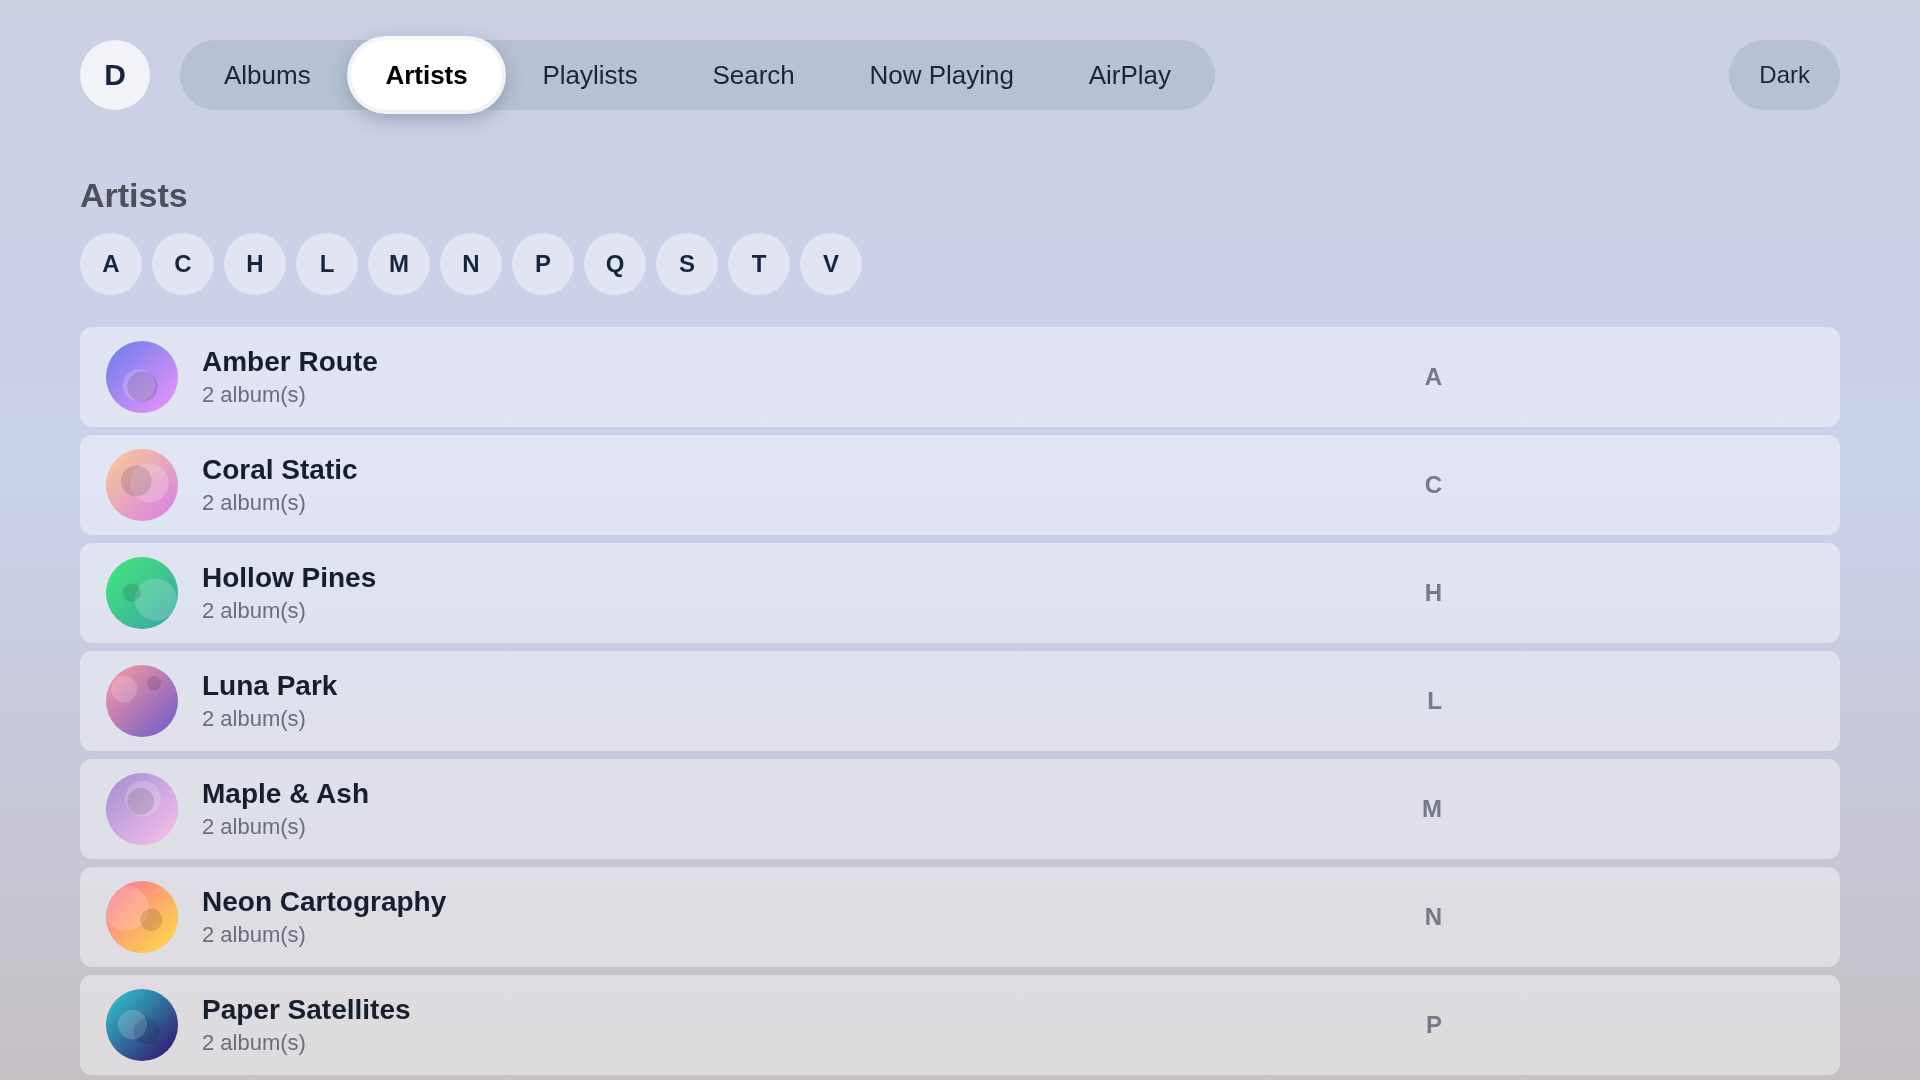
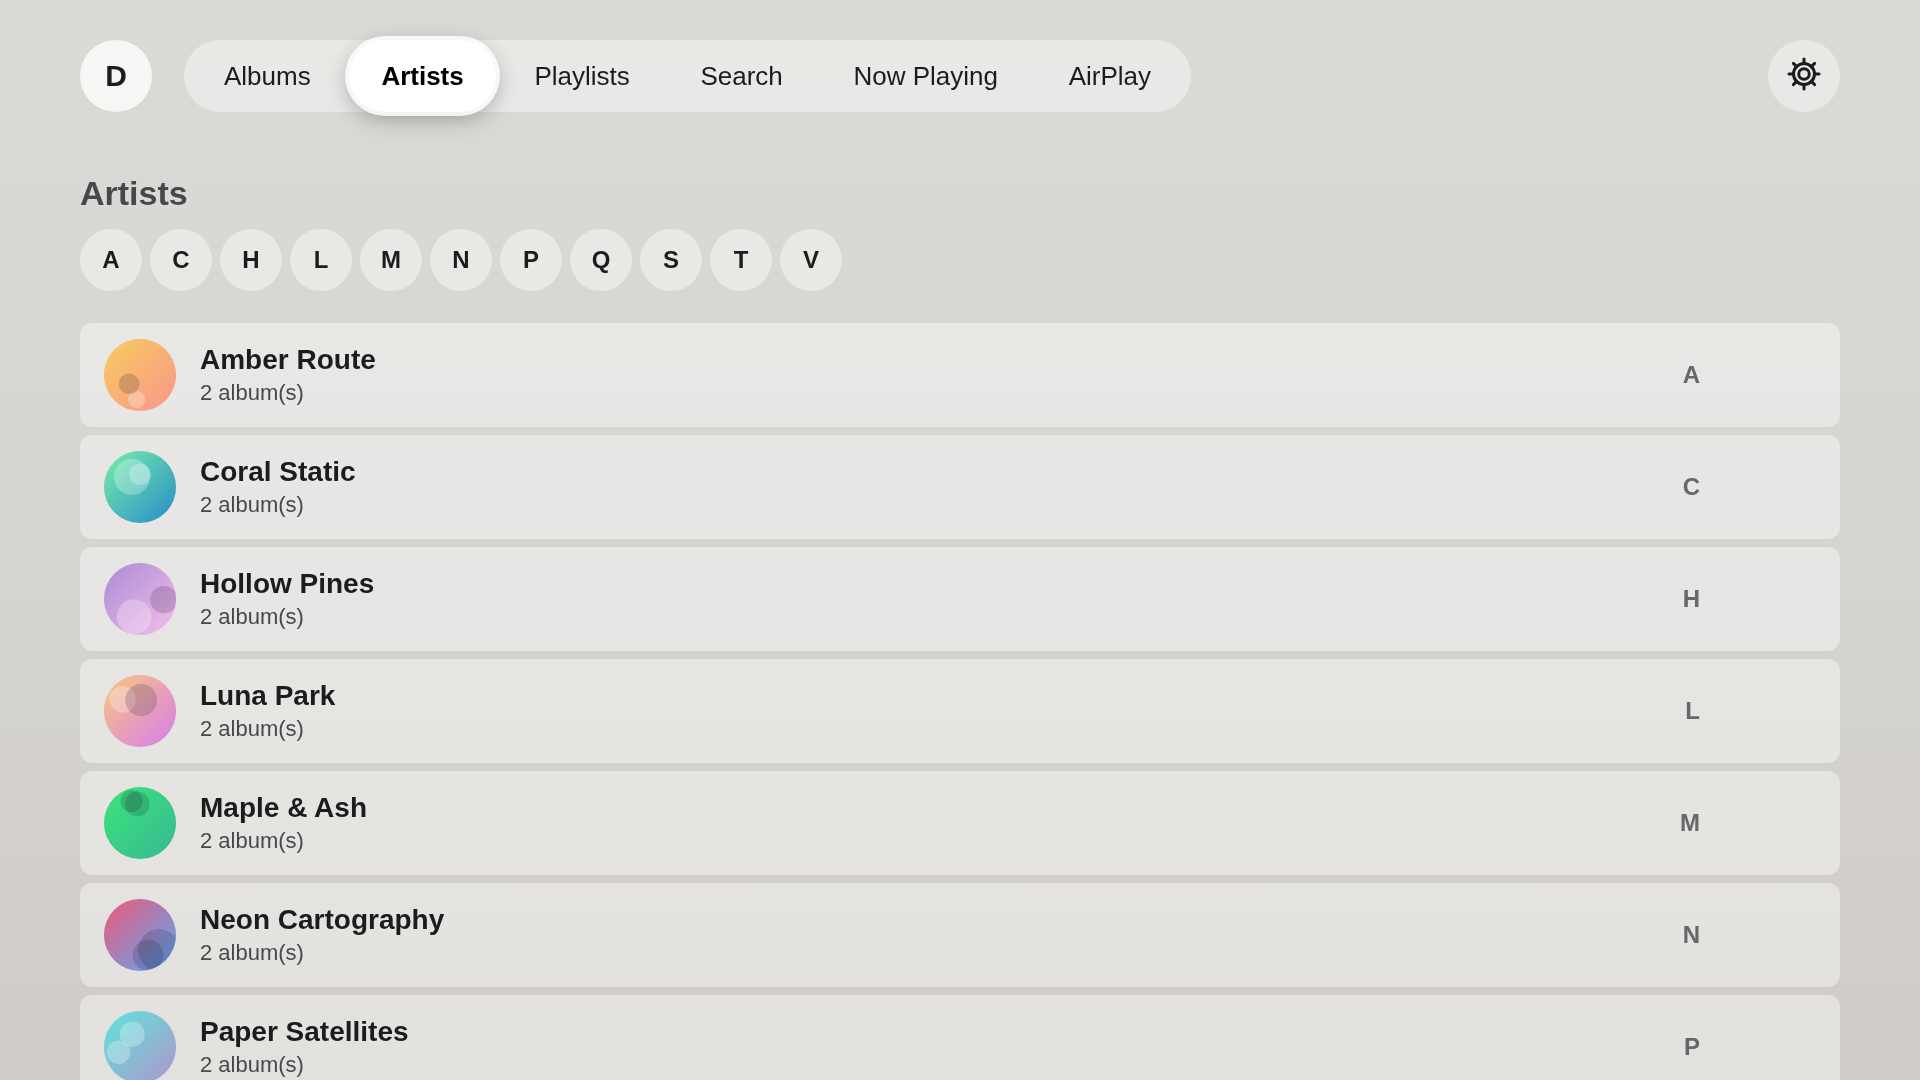
Retake README screenshots for the 1.2 UI and align list columns
- Recapture home (dark and light), artists and search at 1920x1080
- README: describe the Settings gear and the AirPlay tab option, drop
  the lavender and dark-mode-button wording
- Artist and playlist rows use the full row width so the letter and
  count columns sit at the right edge

diff --git a/app/css/style.css b/app/css/style.css
@@ -1392,7 +1392,7 @@ body.no-player #status {
 .artist-text {
     display: inline-block;
     vertical-align: middle;
-    width: 1180px;
+    width: 1440px;
 }
 
 .artist-name {
@@ -1474,7 +1474,7 @@ body.no-player #status {
 .playlist-text {
     display: inline-block;
     vertical-align: middle;
-    width: 1180px;
+    width: 1440px;
 }
 
 .playlist-name {

diff --git a/README.md b/README.md
@@ -32,11 +32,11 @@ Apple Music–style interface with synced lyrics.
 ## Features
 
 - 🎵 **Plays your library** — streams from any Subsonic server, transcoding FLAC/Ogg to MP3
-- 🖼 **Apple Music–style UI** — lavender gradient, translucent nav pill, artwork card rows
+- 🖼 **Apple Music–style UI** — neutral palette, translucent nav pill, artwork card rows
 - 🎛 **Full remote support** — D-pad, media keys, number-pad track jumps
 - 📋 **Server playlists** — your Navidrome/Airsonic playlists, fetched live and playable
 - 🎤 **Synced lyrics** — per-line highlighting from LRCLIB, backdrop tinted from album art
-- 🌗 **Dark mode** — remembered across launches
+- ⚙ **Settings** — a gear in the nav bar: light or dark appearance, and a checkbox to show or hide the AirPlay tab; both remembered across launches
 - ✨ **Smooth motion** — covers fade in, rows rise in, the focused card grows, a card's art flies into the album page and back, and Now Playing's lyrics glide while the cover breathes with play and pause. On a slow TV the app notices and switches the optional motion off by itself ("lite mode")
 - 🔍 **Search** — on-screen keyboard, since a TV remote has no text input
 - 🔀 **Shuffle and repeat** — on the Now Playing screen; remembered across launches
@@ -55,7 +55,8 @@ Apple Music–style interface with synced lyrics.
 | **Playlists** | Playlists from the server, with owner and song count; Enter opens the track list |
 | **Search** | On-screen keyboard with debounced results, albums first then songs |
 | **Now Playing** | Large art, synced lyrics, seeker, transport buttons, shuffle/repeat, Favorite and Up Next |
-| **AirPlay** | Shows what is being cast to the bridge, with artwork, title and progress; switches here automatically when a cast starts. The username icon in the nav bar reopens the connection settings, including the bridge address |
+| **AirPlay** | Shows what is being cast to the bridge, with artwork, title and progress; switches here automatically when a cast starts, unless the tab is hidden in Settings. The username icon in the nav bar reopens the connection settings, including the bridge address |
+| **Settings** | The gear at the right of the nav bar: Appearance (light or dark) and Show AirPlay tab. Hiding the tab keeps the receiver running, so a cast still plays and shows in the player bar |
 | **Player bar** | Slim and persistent on every screen except Now Playing; appears once something plays or is cast |
 
 ## Project layout
